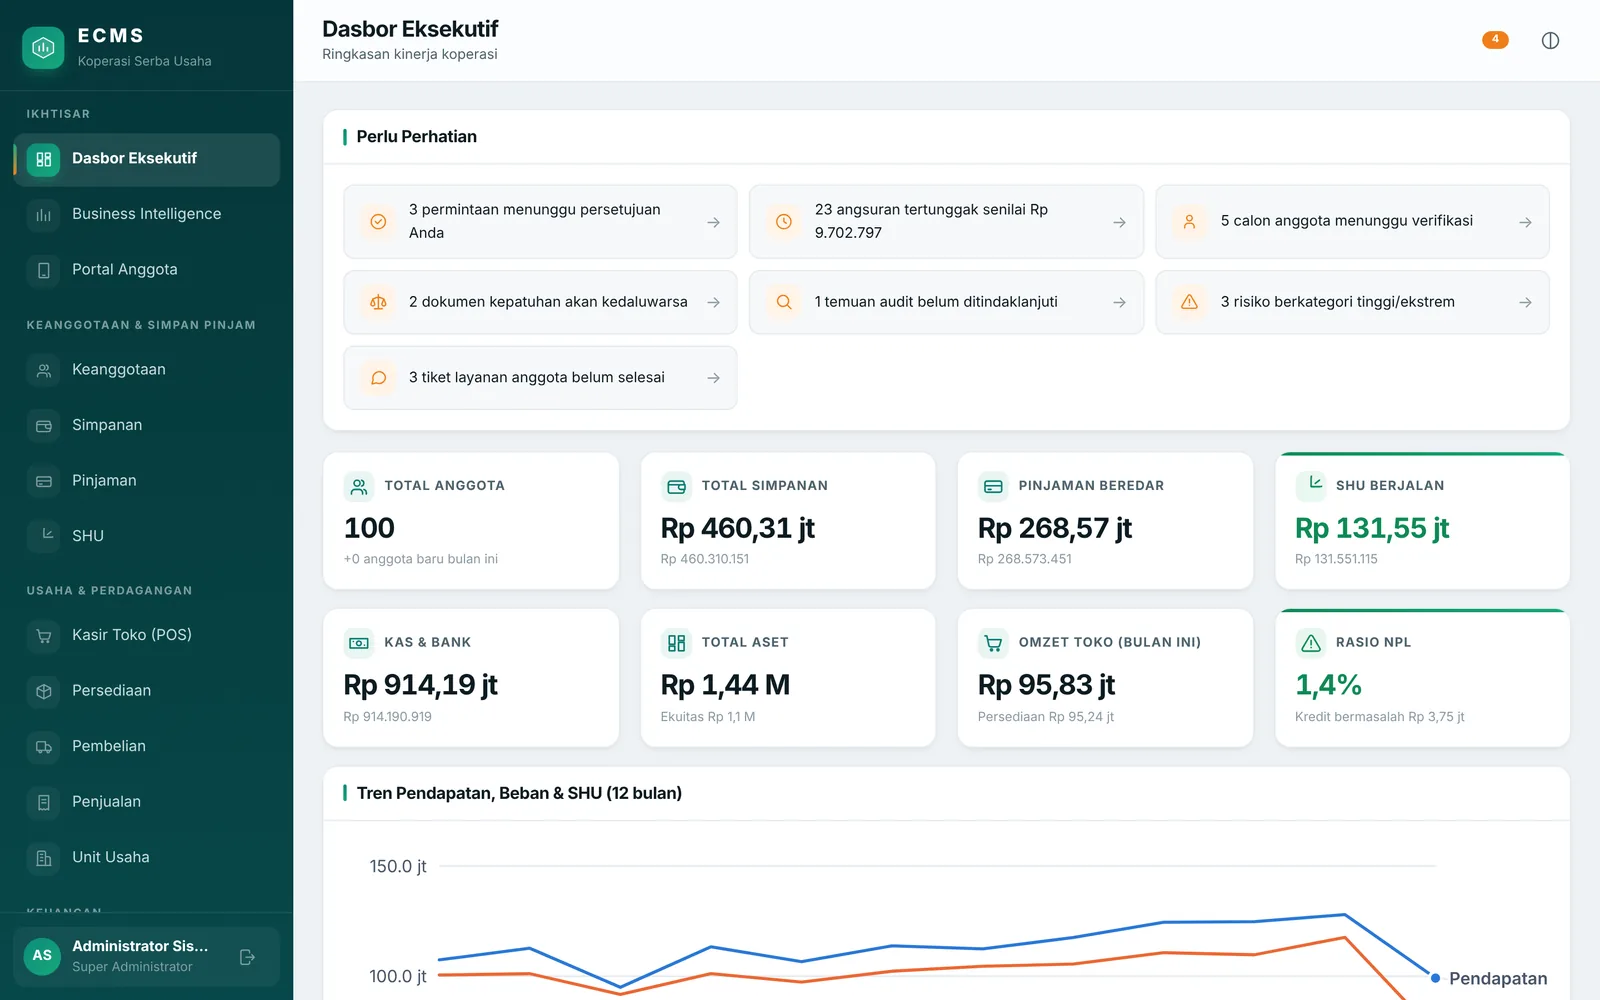
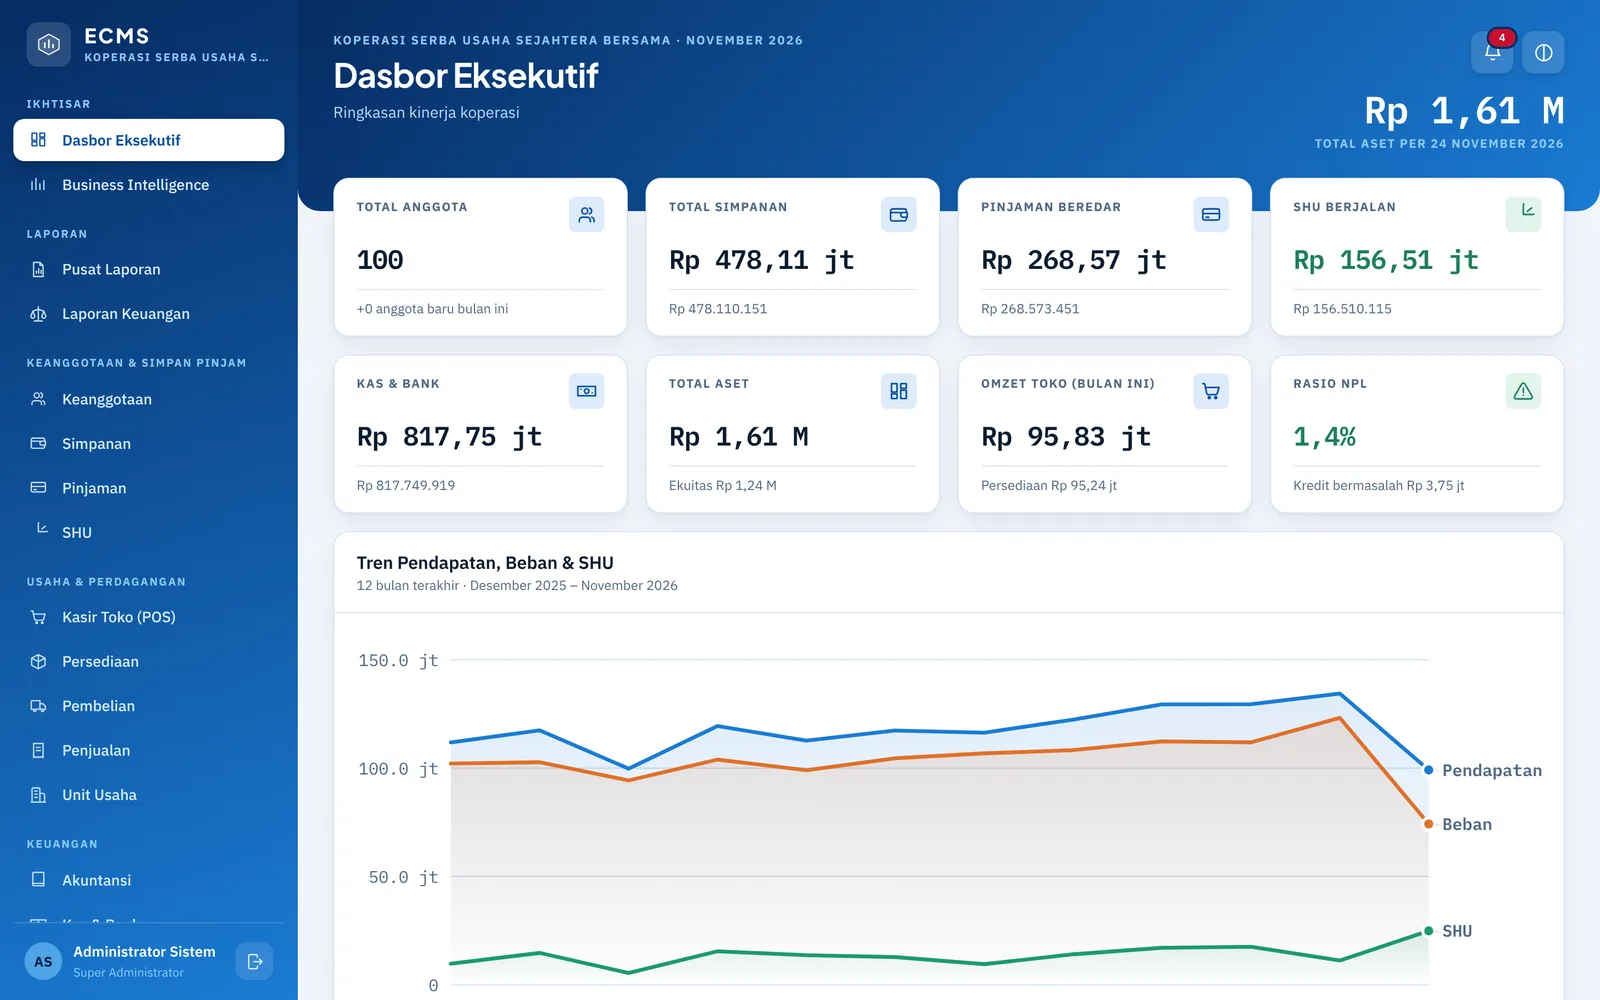
Landing page: tangkapan layar dari versi aplikasi yang sedang live
Versi live (sidik aset a07ed881bb5f) berasal dari branch
claude/audit-semua-fitur-tmthy7 repo kspserbausaha, bukan branch bawaan.
Tangkapan layar diambil ulang dari versi itu, ditambah Pusat Laporan
(cetak PDF, unduh Excel & Word).

Claude-Session: https://claude.ai/code/session_01KqfbCWw2v6HtJHjvUtXGhR

diff --git a/landing-page/index.html b/landing-page/index.html
@@ -145,7 +145,7 @@
           "name": "Apakah SHU dan laporan RAT dihitung otomatis?",
           "acceptedAnswer": {
             "@type": "Answer",
-            "text": "Ya. SHU dihitung dari buku besar dan dialokasikan sesuai persentase AD/ART, lalu dapat disimulasikan dan dibagikan per anggota. Laporan keuangan seperti neraca dan laporan hasil usaha tersedia kapan saja dan dapat dicetak atau diunduh."
+            "text": "Ya. SHU dihitung dari buku besar dan dialokasikan sesuai persentase AD/ART, lalu dapat disimulasikan dan dibagikan per anggota. Laporan keuangan seperti neraca dan laporan hasil usaha tersedia kapan saja, dan puluhan laporan lain dapat dicetak ke PDF atau diunduh ke Excel dan Word."
           }
         },
         {
@@ -452,7 +452,7 @@ footer{background:var(--green-900);color:#a9cfbf;padding:48px 0 28px;font-size:1
         <div class="ico"><svg viewBox="0 0 24 24" fill="none" stroke="currentColor" stroke-width="2" stroke-linecap="round" stroke-linejoin="round" aria-hidden="true"><path d="M3 3v18h18"/><path d="m19 9-5 5-4-4-3 3"/></svg></div>
         <h3>Akuntansi &amp; Keuangan</h3>
         <p>Bagan akun sesuai Permenkop UKM No. 2/2024 dan laporan SAK EP.</p>
-        <ul><li>Jurnal umum &amp; jurnal berulang, tutup periode</li><li>Kas &amp; bank, rekonsiliasi, cash opname</li><li>Anggaran (RKAP) &amp; aset tetap (PSAK 16)</li></ul>
+        <ul><li>Jurnal umum &amp; jurnal berulang, tutup periode</li><li>Kas &amp; bank, rekonsiliasi, cash opname</li><li>Pusat laporan: cetak PDF, unduh Excel &amp; Word</li></ul>
       </article>
       <article class="feat">
         <div class="ico"><svg viewBox="0 0 24 24" fill="none" stroke="currentColor" stroke-width="2" stroke-linecap="round" stroke-linejoin="round" aria-hidden="true"><path d="M12 22s8-4 8-10V5l-8-3-8 3v7c0 6 8 10 8 10z"/><path d="m9 12 2 2 4-4"/></svg></div>
@@ -494,7 +494,7 @@ footer{background:var(--green-900);color:#a9cfbf;padding:48px 0 28px;font-size:1
         <h2 id="akt-h">Laporan keuangan dan SHU siap saat Rapat Anggota Tahunan</h2>
         <p>Setiap transaksi simpanan, pinjaman, toko, dan kas dibukukan dengan mesin jurnal double entry. Bendahara tinggal meninjau, bukan mencatat ulang.</p>
         <ul class="bul">
-          <li><b>✓</b><div><strong>Laporan keuangan SAK EP</strong><span>Neraca, laporan hasil usaha, arus kas, cetak atau unduh CSV.</span></div></li>
+          <li><b>✓</b><div><strong>Laporan keuangan SAK EP</strong><span>Neraca, laporan hasil usaha, dan arus kas. Puluhan laporan lain di Pusat Laporan dapat dicetak ke PDF atau diunduh ke Excel dan Word.</span></div></li>
           <li><b>✓</b><div><strong>SHU sesuai AD/ART</strong><span>Alokasi dana cadangan, jasa modal, dan jasa usaha (Pasal 45), lalu simulasi dan pembagian per anggota.</span></div></li>
           <li><b>✓</b><div><strong>Rapat Anggota Tahunan</strong><span>Jadwal, agenda, kehadiran, kuorum, dan voting tercatat di sistem.</span></div></li>
           <li><b>✓</b><div><strong>Kinerja per unit usaha</strong><span>Pendapatan, beban, dan SHU tiap unit usaha serta konsolidasinya.</span></div></li>
@@ -545,8 +545,8 @@ footer{background:var(--green-900);color:#a9cfbf;padding:48px 0 28px;font-size:1
         <figcaption><strong>Rapat Anggota Tahunan</strong><span>Jadwal rapat, kehadiran, kuorum, dan status setiap rapat anggota.</span></figcaption>
       </figure>
       <figure class="g-item">
-        <a href="/img/approval.webp" target="_blank" rel="noopener"><img src="/img/approval.webp" width="1600" height="1000" alt="Tangkapan layar workflow persetujuan aplikasi koperasi" loading="lazy" decoding="async"></a>
-        <figcaption><strong>Workflow persetujuan</strong><span>Antrian keputusan berjenjang untuk pinjaman dan transaksi penting.</span></figcaption>
+        <a href="/img/pusat-laporan.webp" target="_blank" rel="noopener"><img src="/img/pusat-laporan.webp" width="1600" height="1000" alt="Tangkapan layar pusat laporan aplikasi koperasi" loading="lazy" decoding="async"></a>
+        <figcaption><strong>Pusat laporan</strong><span>Katalog puluhan laporan siap pakai: saring, cetak PDF, atau unduh Excel dan Word.</span></figcaption>
       </figure>
       <figure class="g-item">
         <a href="/img/risiko.webp" target="_blank" rel="noopener"><img src="/img/risiko.webp" width="1600" height="1000" alt="Tangkapan layar manajemen risiko aplikasi koperasi" loading="lazy" decoding="async"></a>
@@ -563,7 +563,7 @@ footer{background:var(--green-900);color:#a9cfbf;padding:48px 0 28px;font-size:1
       <h2 id="modul-h">Lebih dari sekadar simpan pinjam</h2>
     </div>
     <div class="modules">
-      <span>Dasbor eksekutif</span><span>Business intelligence</span><span>Skor kesehatan koperasi</span><span>Portal anggota</span><span>Keanggotaan</span><span>Simpanan</span><span>Pinjaman</span><span>SHU</span><span>Kasir POS</span><span>Persediaan</span><span>Pembelian</span><span>Penjualan &amp; piutang</span><span>Unit usaha</span><span>Akuntansi</span><span>Laporan keuangan</span><span>Kas &amp; bank</span><span>Anggaran (RKAP)</span><span>Aset tetap</span><span>Rapat Anggota Tahunan</span><span>Workflow persetujuan</span><span>Dokumen &amp; persuratan</span><span>Kepatuhan</span><span>Audit internal</span><span>Manajemen risiko</span><span>CRM anggota</span><span>Hak akses &amp; MFA</span>
+      <span>Dasbor eksekutif</span><span>Pusat laporan</span><span>Business intelligence</span><span>Skor kesehatan koperasi</span><span>Portal anggota</span><span>Keanggotaan</span><span>Simpanan</span><span>Pinjaman</span><span>SHU</span><span>Kasir POS</span><span>Persediaan</span><span>Pembelian</span><span>Penjualan &amp; piutang</span><span>Unit usaha</span><span>Akuntansi</span><span>Laporan keuangan</span><span>Kas &amp; bank</span><span>Anggaran (RKAP)</span><span>Aset tetap</span><span>Rapat Anggota Tahunan</span><span>Workflow persetujuan</span><span>Dokumen &amp; persuratan</span><span>Kepatuhan</span><span>Audit internal</span><span>Manajemen risiko</span><span>CRM anggota</span><span>Hak akses &amp; MFA</span><span>Setup identitas &amp; logo koperasi</span>
     </div>
   </div>
 </section>
@@ -595,7 +595,7 @@ footer{background:var(--green-900);color:#a9cfbf;padding:48px 0 28px;font-size:1
       <details><summary>Apakah aplikasi ini bisa dipakai koperasi serba usaha (KSU)?</summary><p>Bisa. Selain simpan pinjam, tersedia modul toko dan unit usaha: kasir POS, persediaan, pembelian, penjualan serta utang-piutang. Kinerja setiap unit usaha dilaporkan terpisah sekaligus konsolidasi, dan semua transaksinya otomatis tercatat ke jurnal koperasi.</p></details>
       <details><summary>Apakah perlu memasang aplikasi di komputer?</summary><p>Tidak. Aplikasi berbasis web dan cukup dibuka melalui browser. Anggota juga punya portal sendiri untuk melihat simpanan, angsuran, dan SHU, mengajukan pinjaman, serta mengikuti voting RAT.</p></details>
       <details><summary>Apakah sesuai dengan aturan akuntansi koperasi?</summary><p>Aplikasi dirancang mengacu pada UU No. 25 Tahun 1992 tentang Perkoperasian, Permenkop UKM No. 2 Tahun 2024 untuk bagan akun dan laporan keuangan, SAK Entitas Privat, PSAK 14 untuk persediaan, dan PSAK 16 untuk aset tetap.</p></details>
-      <details><summary>Apakah SHU dan laporan RAT dihitung otomatis?</summary><p>Ya. SHU dihitung dari buku besar dan dialokasikan sesuai persentase AD/ART, lalu dapat disimulasikan dan dibagikan per anggota. Laporan keuangan seperti neraca dan laporan hasil usaha tersedia kapan saja dan dapat dicetak atau diunduh.</p></details>
+      <details><summary>Apakah SHU dan laporan RAT dihitung otomatis?</summary><p>Ya. SHU dihitung dari buku besar dan dialokasikan sesuai persentase AD/ART, lalu dapat disimulasikan dan dibagikan per anggota. Laporan keuangan seperti neraca dan laporan hasil usaha tersedia kapan saja, dan puluhan laporan lain dapat dicetak ke PDF atau diunduh ke Excel dan Word.</p></details>
       <details><summary>Bagaimana keamanan data koperasi?</summary><p>Setiap pengguna hanya melihat menu sesuai perannya, login dapat dilindungi verifikasi dua langkah (MFA), dan setiap perubahan data tercatat dalam jejak audit berantai. Dokumen penting diberi sidik jari SHA-256 sehingga perubahan dapat terdeteksi.</p></details>
       <details><summary>Bagaimana cara mendapatkan demo atau penawaran harga?</summary><p>Hubungi kami melalui WhatsApp <a href="https://wa.me/628128195542" target="_blank" rel="noopener" style="color:var(--green-700);font-weight:700">0812-8195-542</a>. Kami akan menjadwalkan demo dan menyiapkan penawaran sesuai kebutuhan koperasi Anda.</p></details>
     </div>
